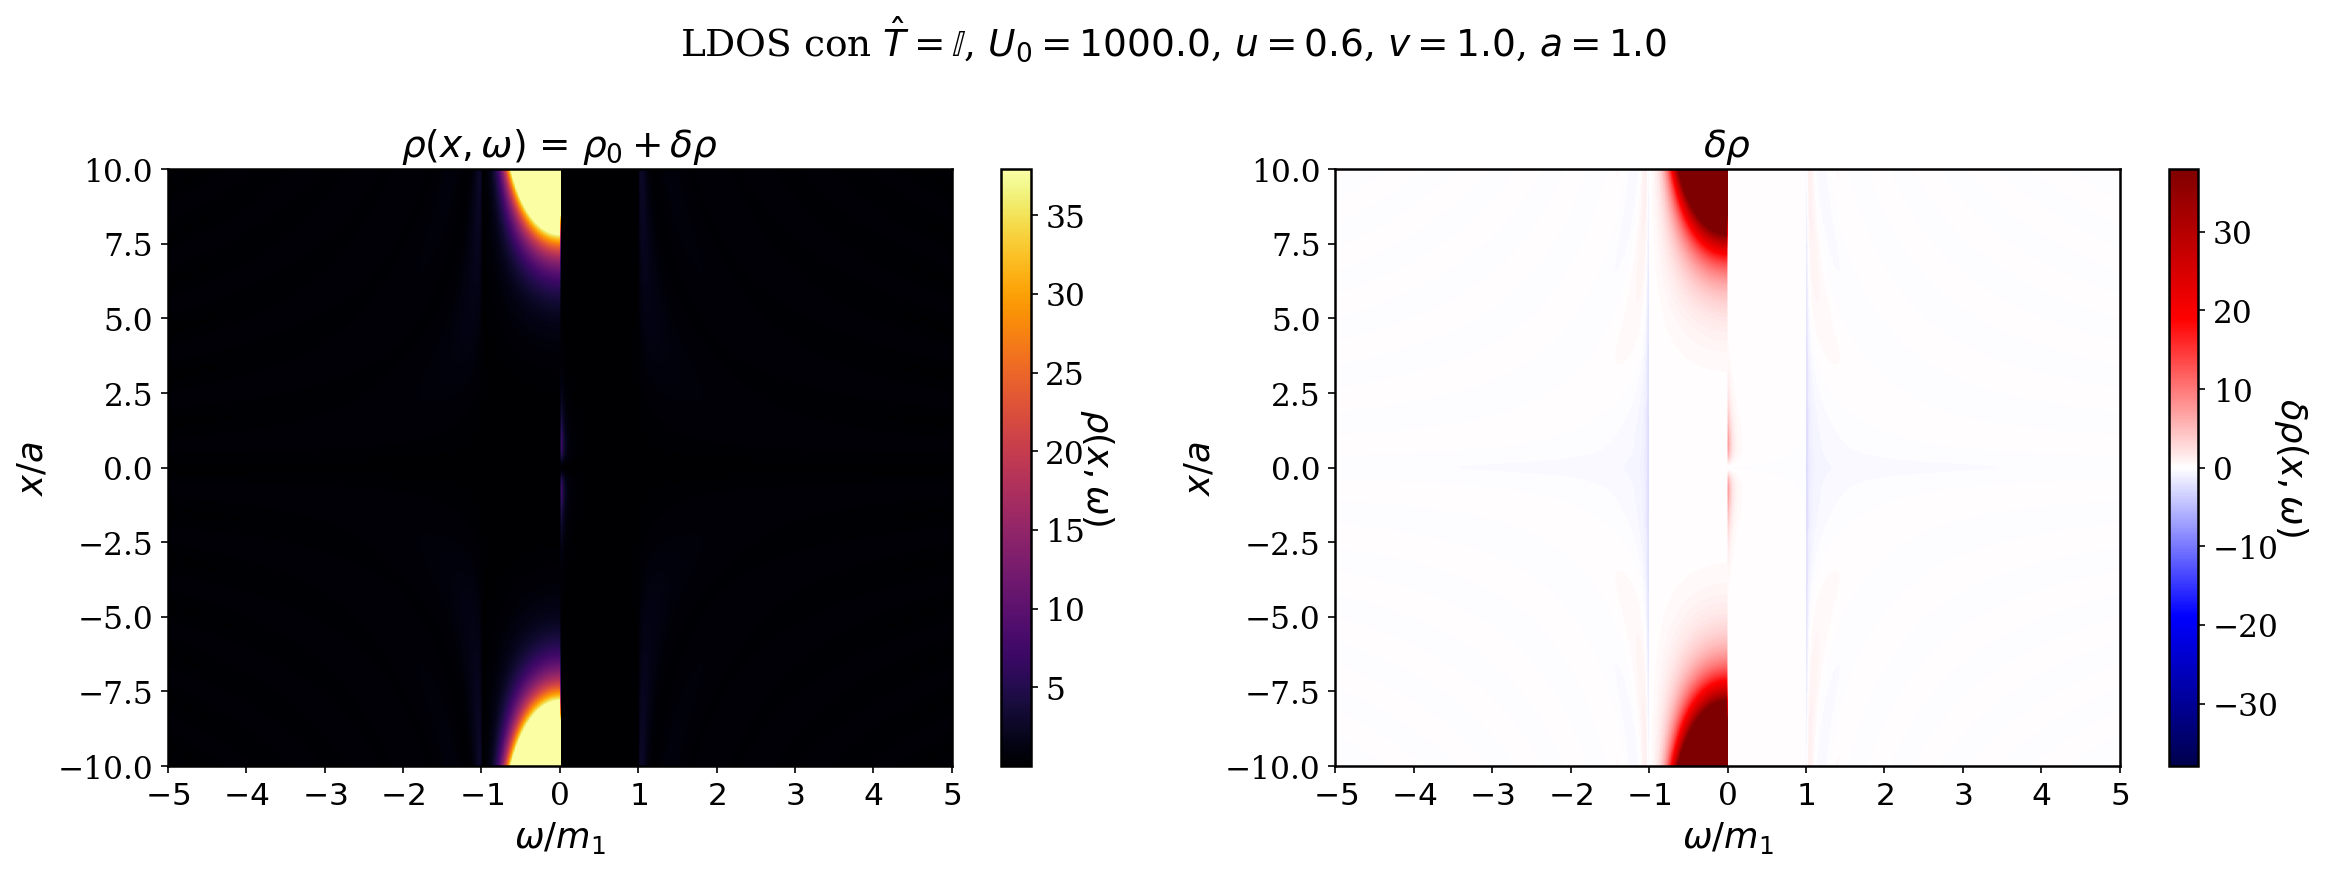
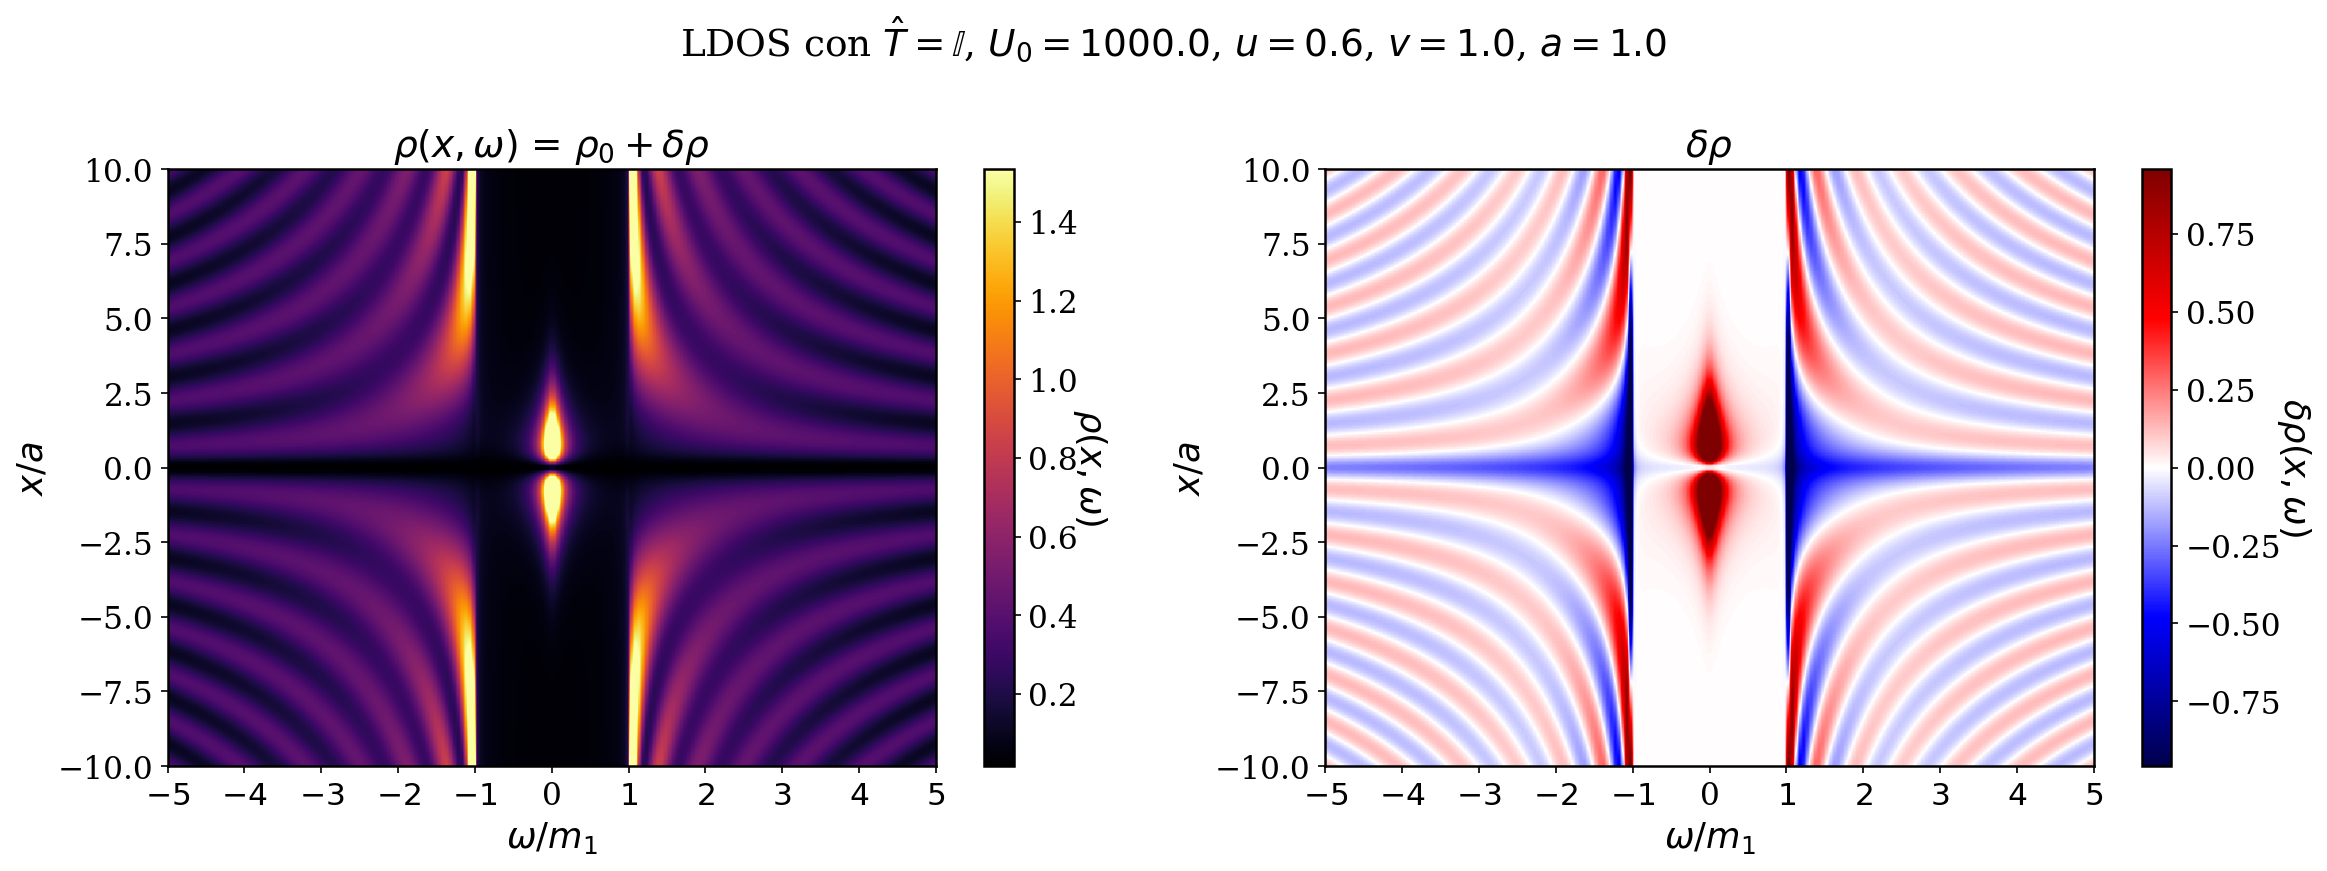
nuevas graficas corregidas

diff --git a/LDOS_cut_T.py b/LDOS_cut_T.py
@@ -29,14 +29,14 @@ plt.rcParams.update({
 # Parámetros del sistema
 # -------------------------------------------------------
 a  = 1.0
-u  = 0.8
-v  = 1.0
+u  = 1.0
+v  = 0.5
 m1 = v - u          # masa 1
 m2 = u * a**2 / 2   # masa 2
 A  = u * a          # coeficiente off-diagonal
 
 # Parámetro de la perturbación
-U0 = 1000.0          # amplitud del potencial delta
+U0 = 0.001         # amplitud del potencial delta
 
 # Posición del corte / impureza
 x0 = 0.0
@@ -80,35 +80,42 @@ def signo_omega(omega):
 
 # -------------------------------------------------------
 # Construcción de matrices beta_± (2x2)
-# beta_+ y beta_- son los bloques matriciales que
-# aparecen en g^r(x,x',omega).
 # -------------------------------------------------------
+def sqrt_retarded(k, omega):
+    """
+    Calcula el momento efectivo combinando la raíz cuadrada 
+    y la condición de contorno físicamente correcta.
+    """
+    s = np.sqrt(k + 0j)
+    
+    # Corte físico: si la energía supera el gap, estamos en el bulk (onda propagante)
+    if np.abs(omega) >= np.abs(m1):
+        return signo_omega(omega) * s
+    else:
+        # Estamos dentro del gap (onda evanescente)
+        # Forzamos que la parte imaginaria sea estrictamente positiva para el decaimiento
+        if np.imag(s) < 0:
+            return -s
+        return s
+
 def beta_plus(omega, x, xp):
-    """
-    Matriz beta_+(x,x') según la definición del texto.
-    sgn(omega) multiplica los elementos diagonales.
-    """
     w    = omega + 1j * eta
     kp   = kappa_plus(omega)
-    sqkp = np.sqrt(kp + 0j)
+    
+    # CORRECCIÓN 2: agregamos 'omega' como segundo argumento
+    sqkp = sqrt_retarded(kp, omega)      
 
-
-
-    d11 = signo_omega(omega) * ((w - m1) / sqkp + m2 * sqkp)
-    d22 = signo_omega(omega) * ((w + m1) / sqkp - m2 * sqkp)
+    d11 = (w - m1) / sqkp + m2 * sqkp
+    d22 = (w + m1) / sqkp - m2 * sqkp
     off = A * np.sign(x - xp)
 
     return np.array([[d11, off],
                      [off, d22]], dtype=complex)
 
 def beta_minus(omega, x, xp):
-    """
-    Matriz beta_-(x,x') según la definición del texto.
-    """
-    w    = omega + 1j * eta
-    km   = kappa_minus(omega)
-    abskm = np.abs(km)
-    sqkm  = np.sqrt(abskm + 0j)
+    w     = omega + 1j * eta
+    km    = kappa_minus(omega)
+    sqkm  = np.sqrt(np.abs(km) + 0j)
     i_sq  = 1j * sqkm
 
     d11 = (w - m1) / i_sq + m2 * i_sq
@@ -118,17 +125,13 @@ def beta_minus(omega, x, xp):
     return np.array([[d11, off],
                      [off, d22]], dtype=complex)
 
-# -------------------------------------------------------
-# Green's function no perturbada g^r(x, xp, omega)
-# -------------------------------------------------------
 def green_r(omega, x, xp):
-    """
-    g^r(x, x', omega) completa (matriz 2x2).
-    """
     kp    = kappa_plus(omega)
     km    = kappa_minus(omega)
     abskm = np.abs(km)
-    sqkp  = np.sqrt(kp   + 0j)
+    
+    # CORRECCIÓN 3: agregamos 'omega' como segundo argumento
+    sqkp  = sqrt_retarded(kp, omega)         
     sqkm  = np.sqrt(abskm + 0j)
 
     denom = 2.0 * m2**2 * (kp + abskm)
@@ -136,9 +139,9 @@ def green_r(omega, x, xp):
     Bp = beta_plus (omega, x, xp)
     Bm = beta_minus(omega, x, xp)
 
-    dist = np.abs(x - xp)
-    exp_p = np.exp( signo_omega(omega) * 1j * sqkp * dist)
-    exp_m = np.exp(-sqkm  * dist)
+    dist  = np.abs(x - xp)
+    exp_p = np.exp(1j * sqkp * dist)  
+    exp_m = np.exp(-sqkm * dist)
 
     return (-1j / denom) * (Bp * exp_p - Bm * exp_m)
 
@@ -162,8 +165,8 @@ def delta_green_r(omega, x, xp, M_inv):
 # Grillas
 # -------------------------------------------------------
 x_max = 10
-N_x = 100*x_max
-N_omega = 5000
+N_x = 20*x_max
+N_omega = 200
 
 x_vals     = np.linspace(-x_max+x0, x_max+x0, N_x)
 omega_vals = np.linspace(-5 * m1, 5 * m1, N_omega)
